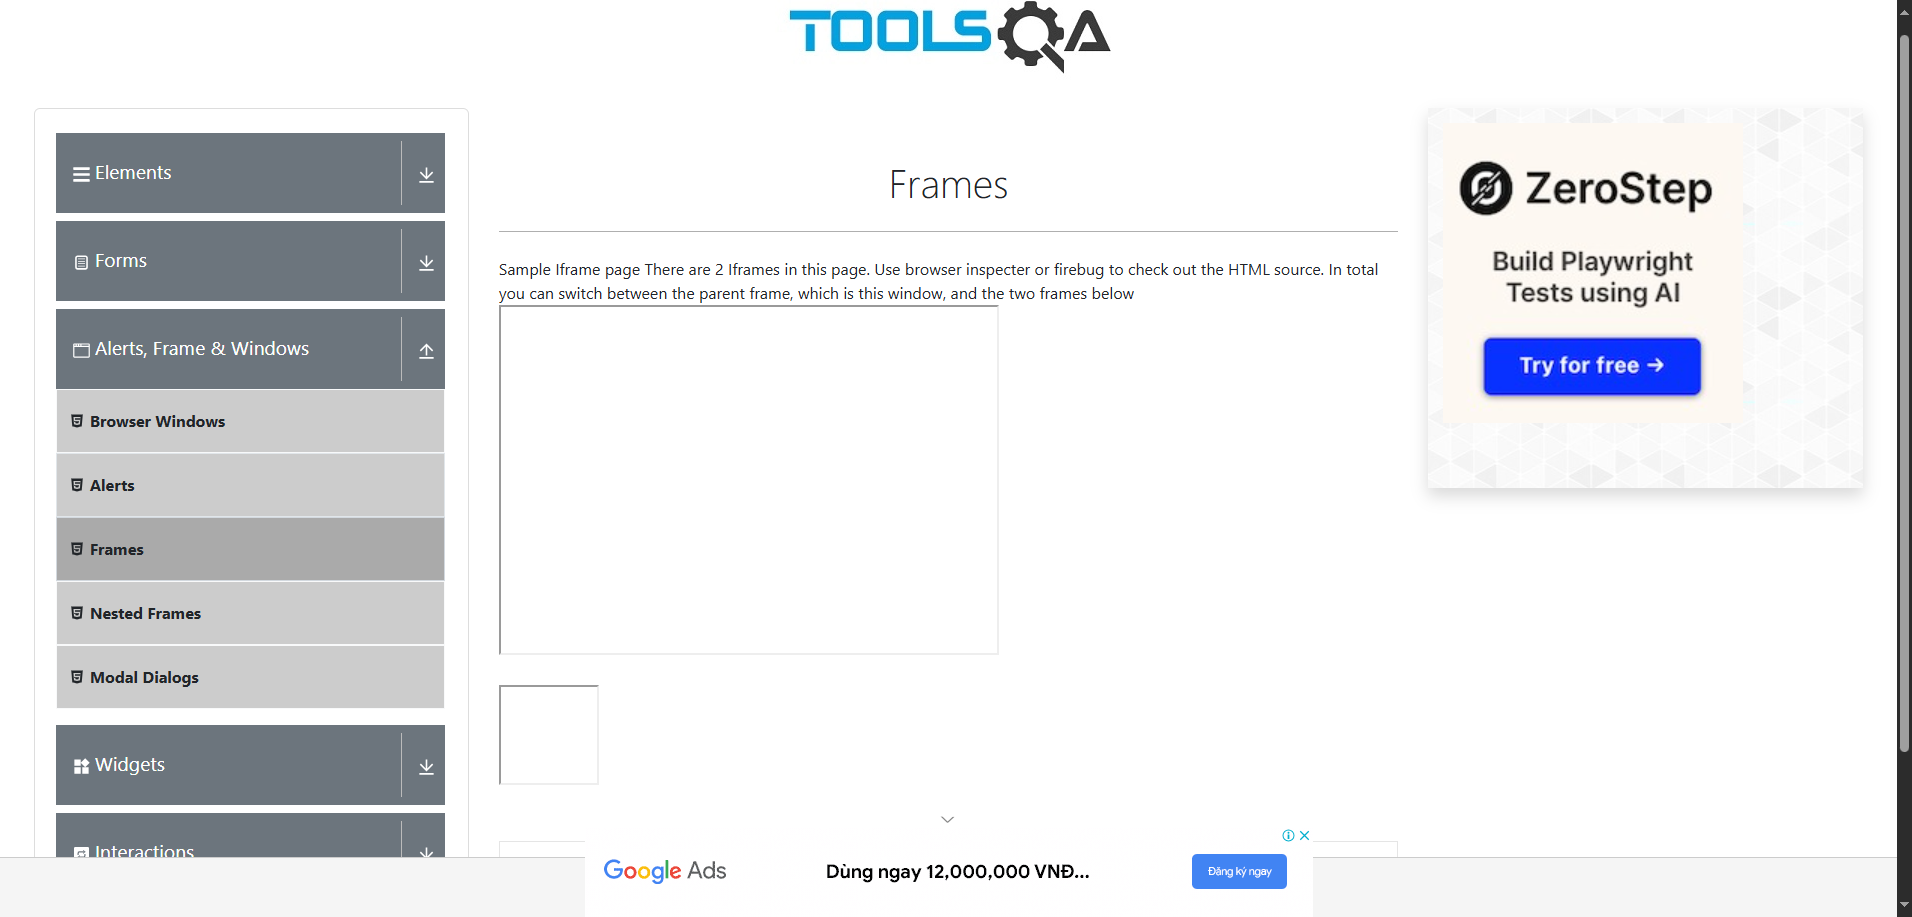
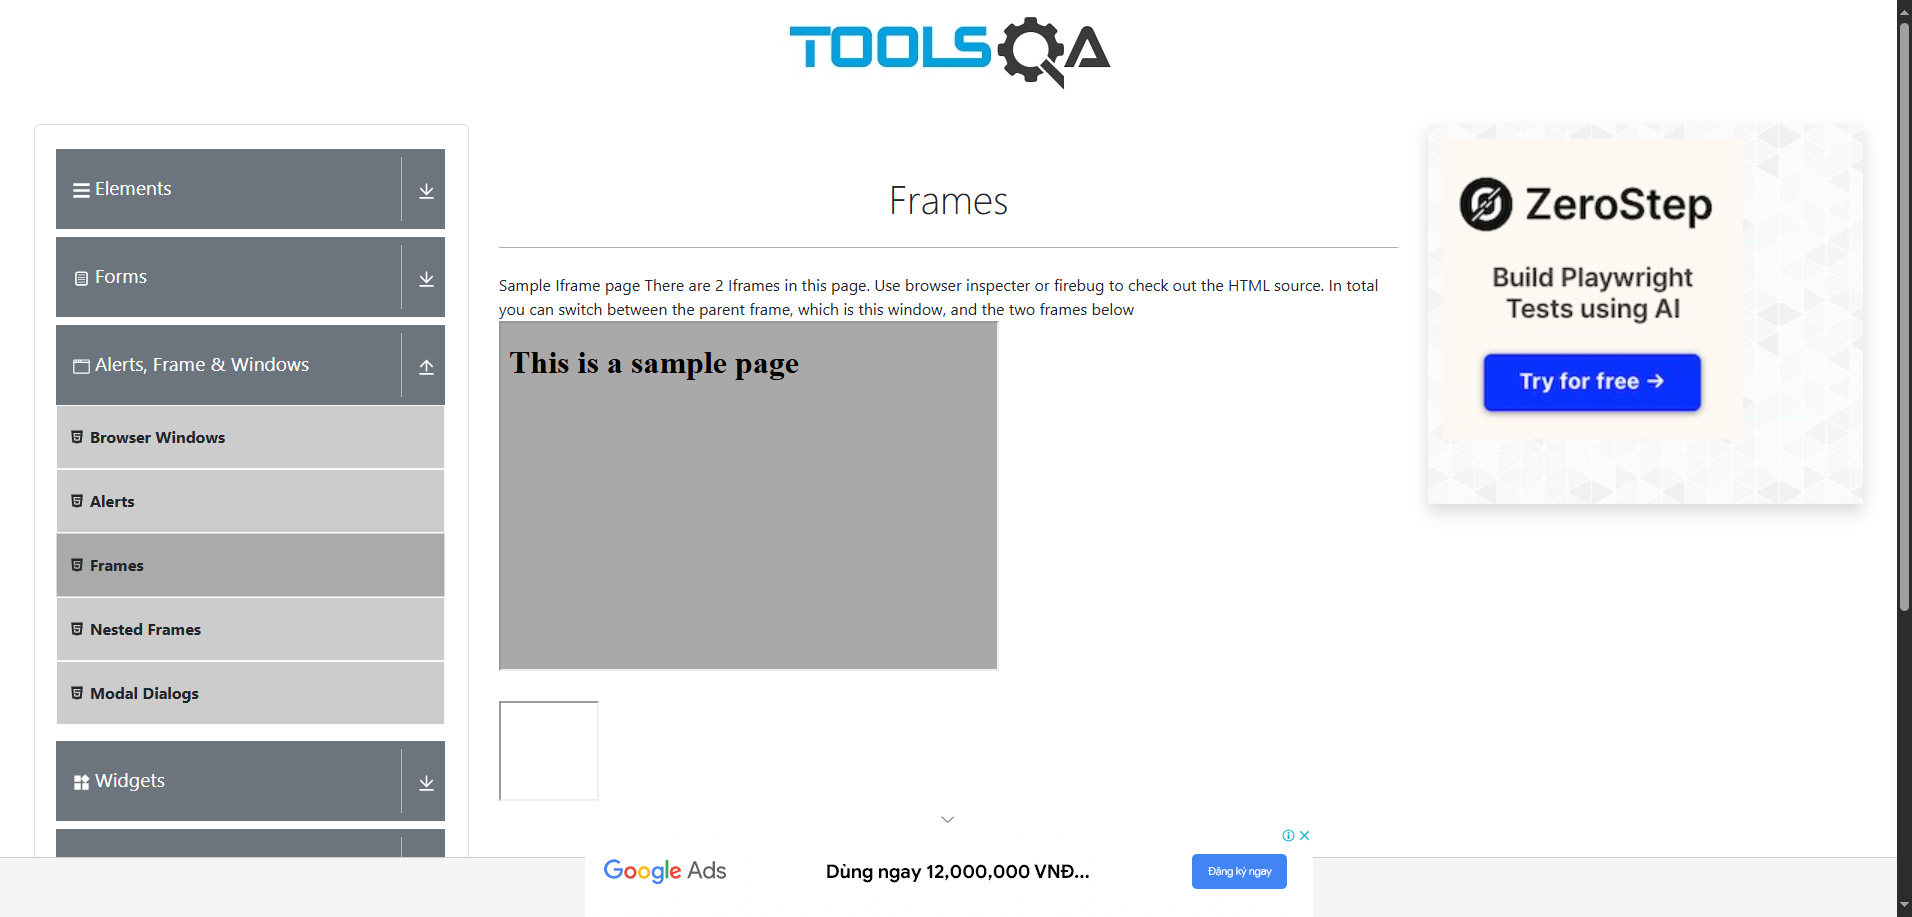
Create auto switch to frame using webElement test
- Still the test not quite stable

diff --git a/src/main/java/com/demoqa/pages/alerts_frames_windows/FramesPage.java b/src/main/java/com/demoqa/pages/alerts_frames_windows/FramesPage.java
@@ -10,7 +10,9 @@ public class FramesPage extends Alerts_Frame_WindowsPage{
     private By textInFrame = By.id("sampleHeading");
     private String iFrameBigBox = "frame1";
     private By headerFramesText = By.xpath("//div[@id='app']//h1[text()='Frames']");
+    private By frameSmallBox = By.xpath("//div[@id='frame2Wrapper']/iframe");
     private final int BIG_BOX_FRAME_INDEX = 2;
+
     public String getHeaderFramesText() {
         return find(headerFramesText).getText();
     }
@@ -20,6 +22,10 @@ public class FramesPage extends Alerts_Frame_WindowsPage{
 
     private void switchToSmallBox() {
         switchToFrameIndex(BIG_BOX_FRAME_INDEX); // small box get issue
+    }
+
+    private void switchToSmallBoxByElement() {
+        switchToFrameElement(find(frameSmallBox));
     }
 
     public String getTextInBigFrame() {
@@ -37,4 +43,14 @@ public class FramesPage extends Alerts_Frame_WindowsPage{
         switchToDefaultContent();
         return smallFrameText;
     }
+
+    public String getTextInSmallFrameElement() {
+        switchToSmallBoxByElement();
+        String smallFrameText = find(textInFrame).getText();
+        System.out.println("Small Frame Text" + smallFrameText);
+        switchToDefaultContent();
+        return smallFrameText;
+    }
+
+
 }

diff --git a/src/test/java/Test3_4/com/demoqa/teses/part4/frames/FramesTest.java b/src/test/java/Test3_4/com/demoqa/teses/part4/frames/FramesTest.java
@@ -32,4 +32,17 @@ public class FramesTest extends BaseTest {
         Assert.assertEquals(actualHeaderText, expectedHeaderText,
         "\n Actual & Expected header text do not match\n");
     }
+
+    @Test
+    public void testFramSmallBoxElement() {
+        var framesPage = homePage.goToAlertsFramesWindowsCard().clickFrames();
+        String actualSmallBoxText = framesPage.getTextInSmallFrameElement();
+        String expectedSmallBoxText= "This is a sample page";
+        Assert.assertEquals(actualSmallBoxText, expectedSmallBoxText,
+                "\n Actual & Expect text do not match\n");
+        String actualHeaderText = framesPage.getHeaderFramesText();
+        String expectedHeaderText = "Frames";
+        Assert.assertEquals(actualHeaderText, expectedHeaderText,
+                "\n Actual & Expected header text do not match\n");
+    }
 }

diff --git a/src/main/java/utilities/SwitchToUtility.java b/src/main/java/utilities/SwitchToUtility.java
@@ -36,4 +36,8 @@ public class SwitchToUtility extends Utility{
     public static void switchToFrameIndex(int index) {
         switchTo().frame(index);
     }
+
+    public static void switchToFrameElement(WebElement element) {
+        switchTo().frame(element);
+    }
 }
